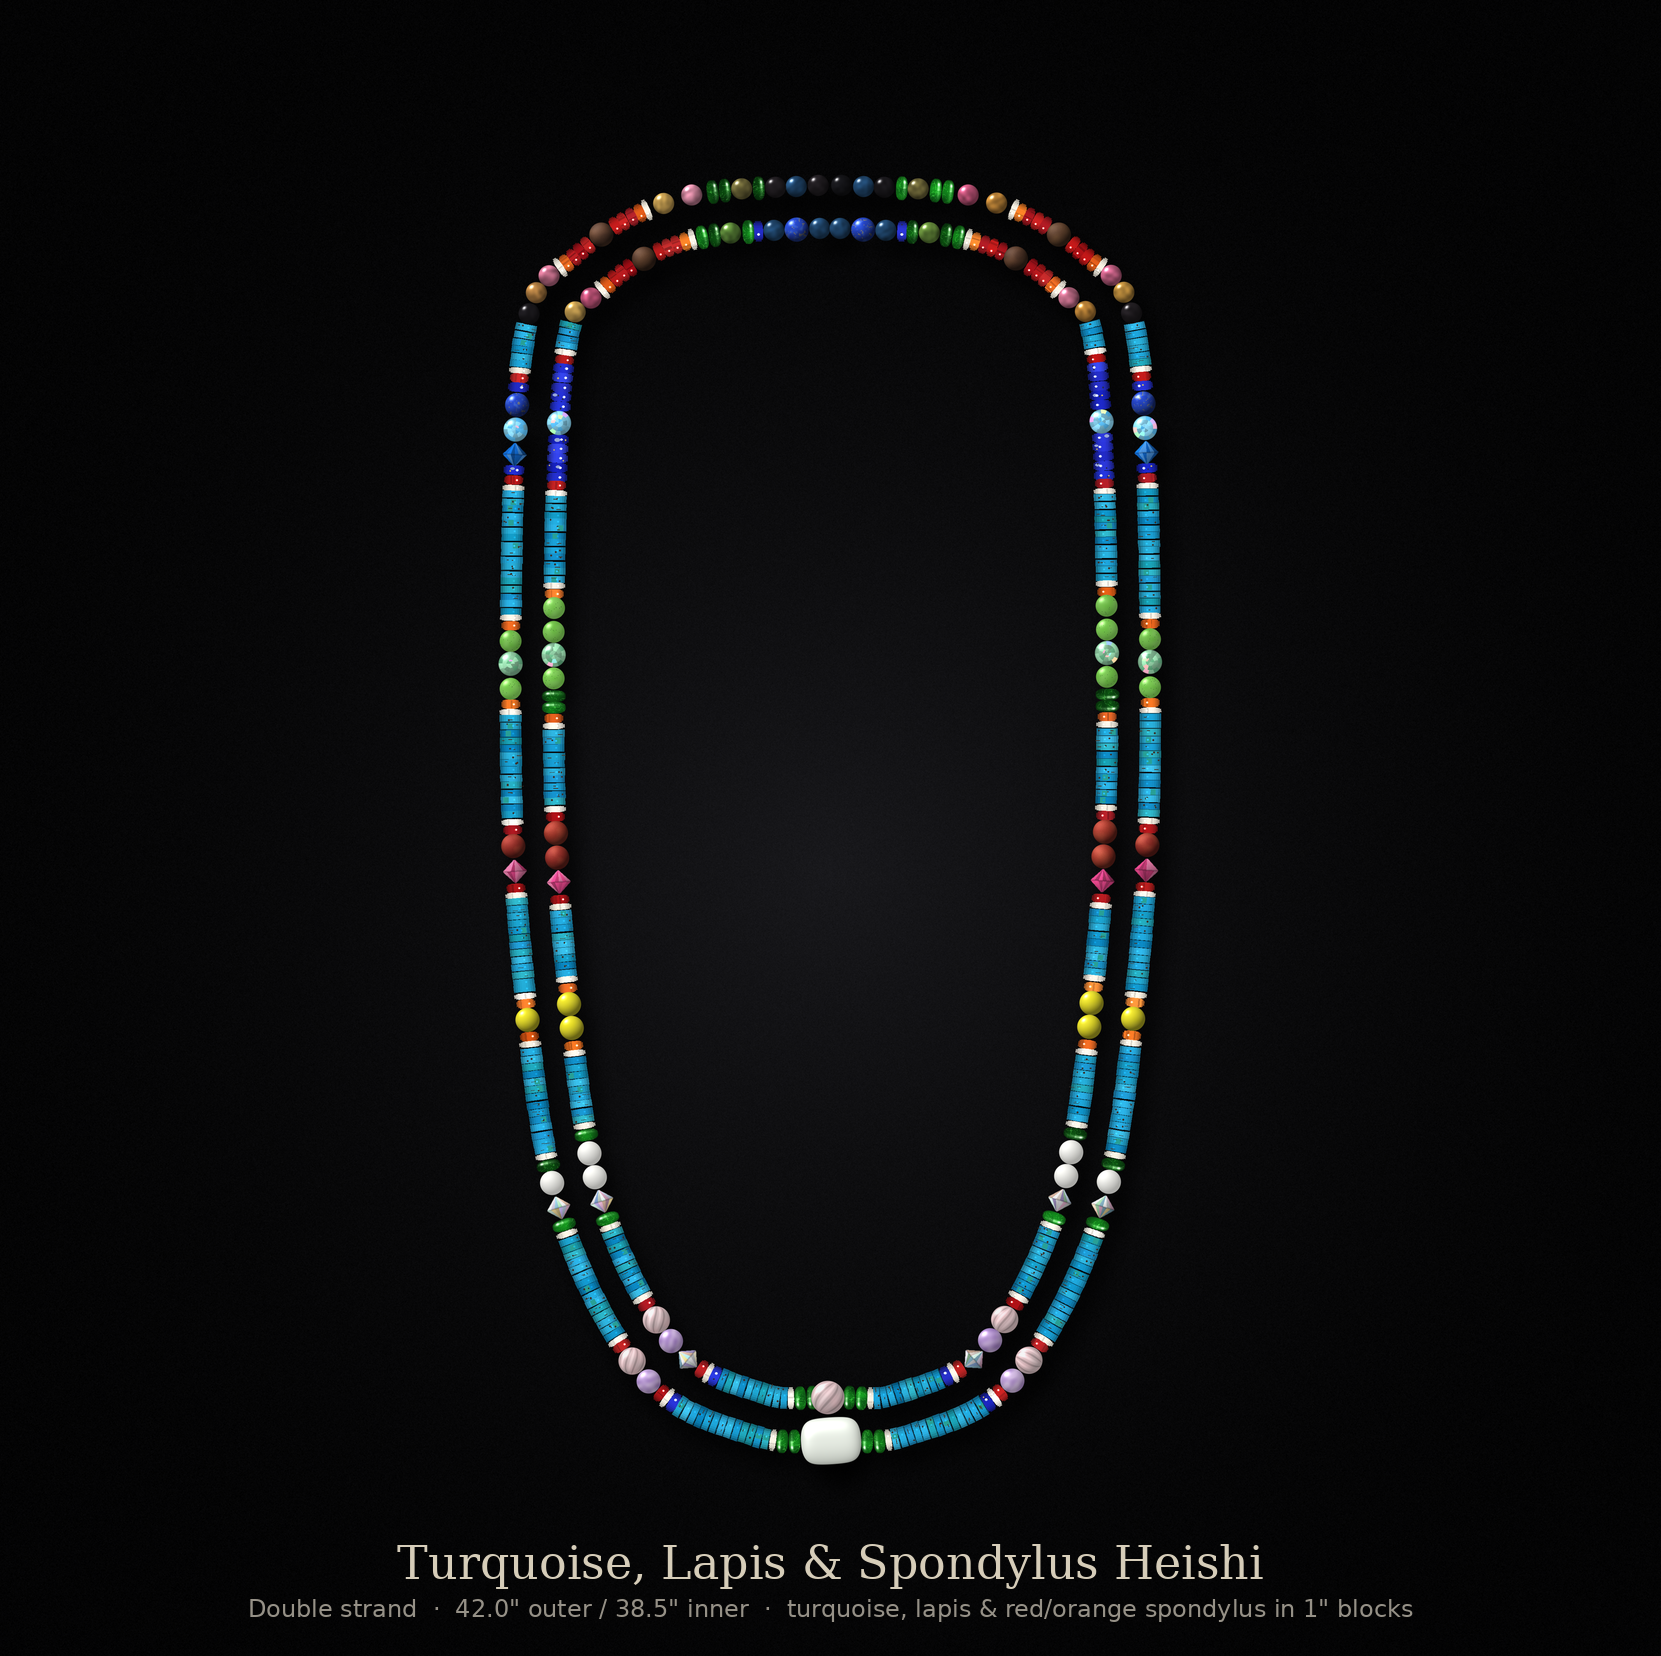
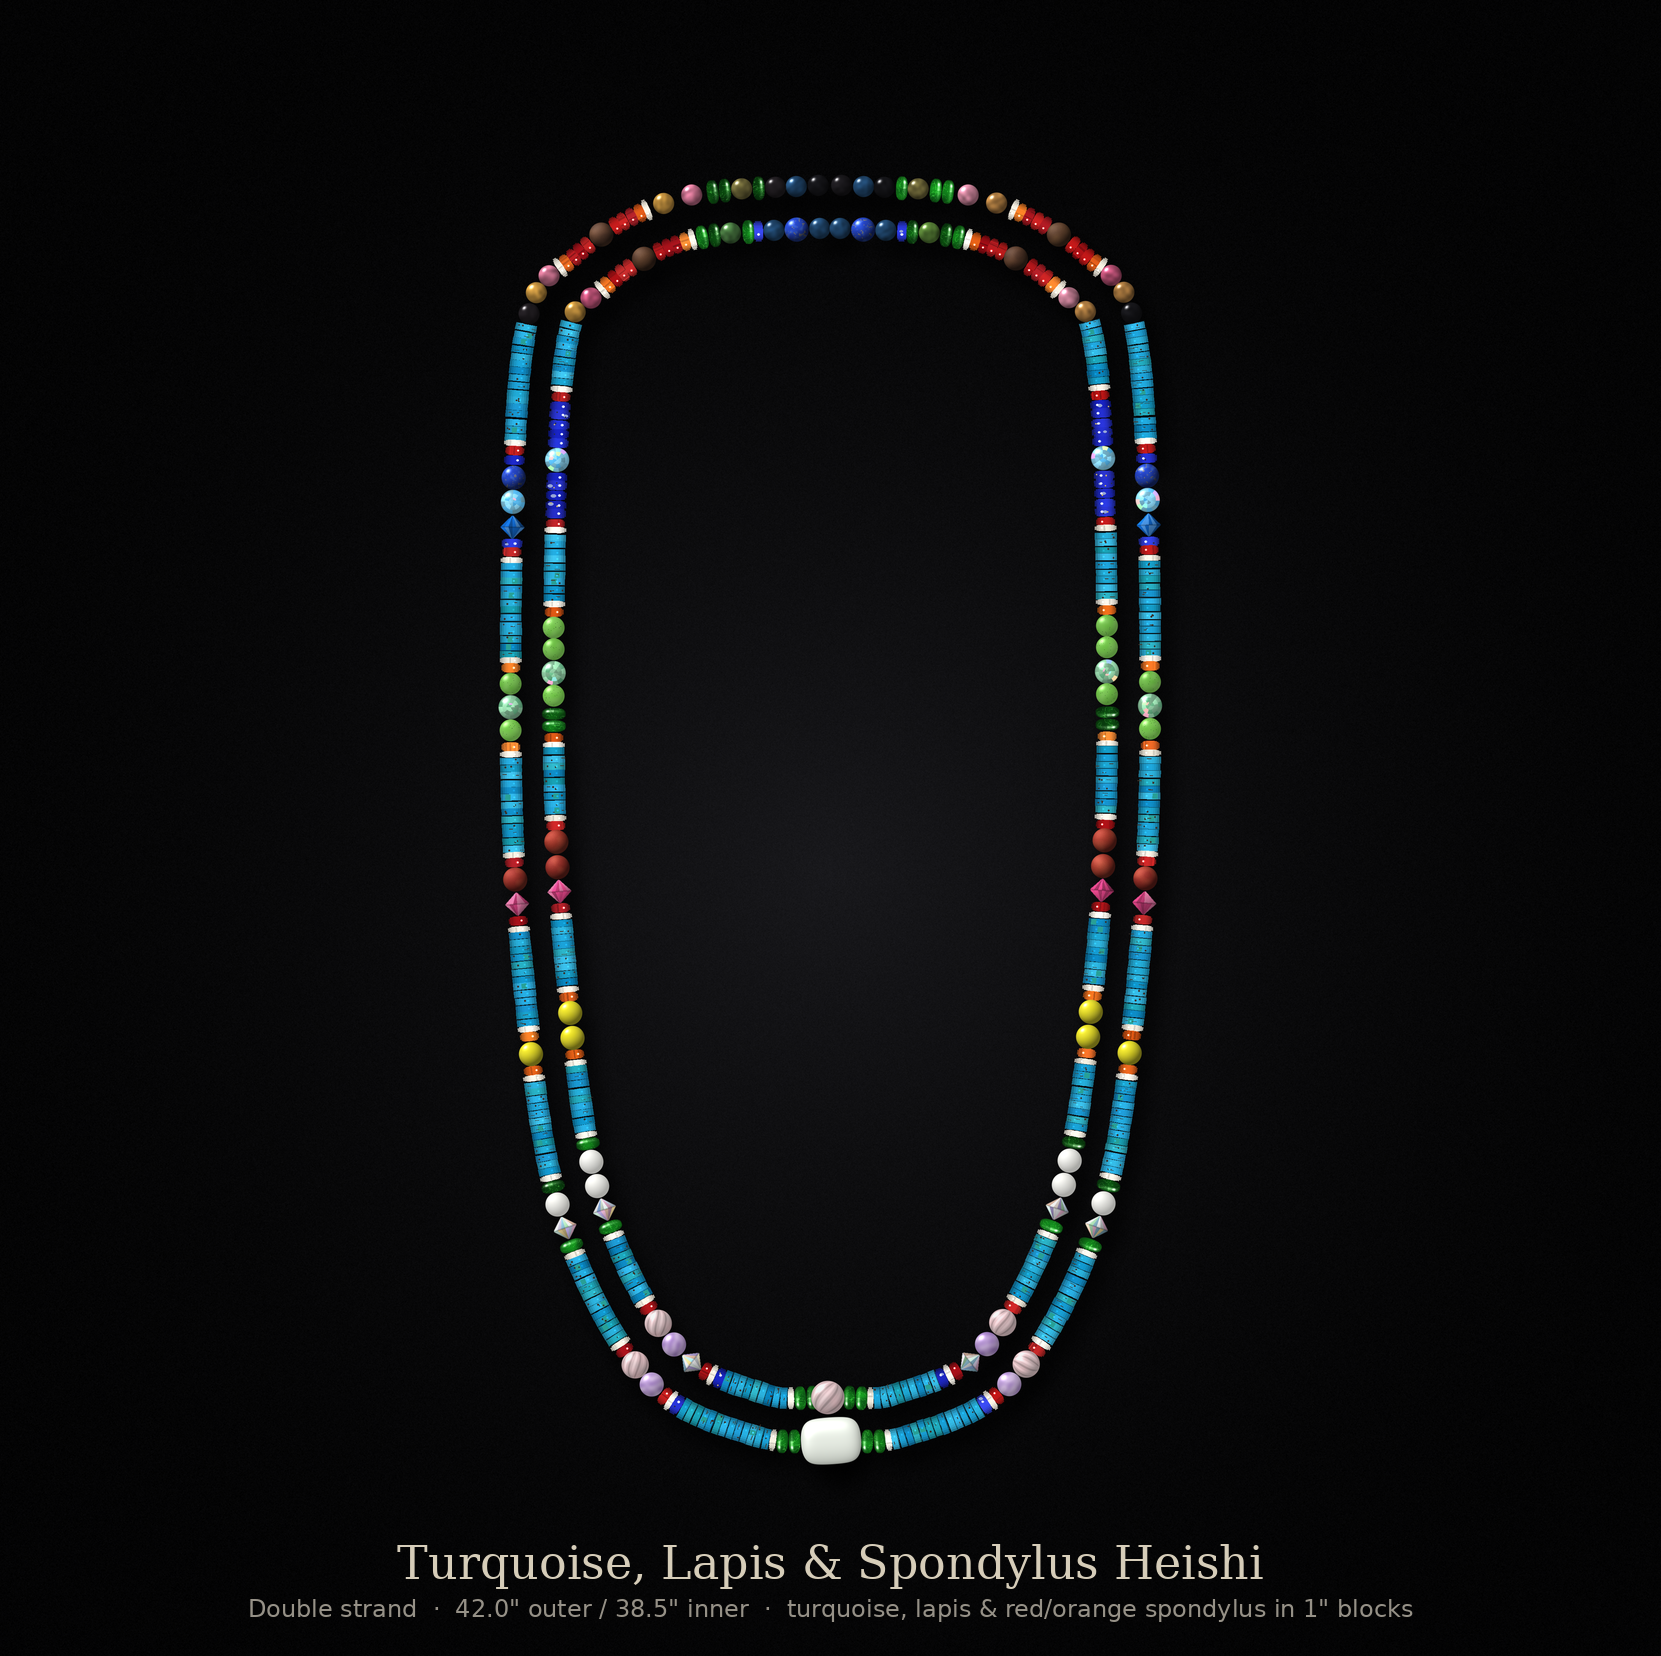
Version 5: lower turquoise runs equalised, the extra goes above the blue section
Claude-Session: https://claude.ai/code/session_014be1vF4Rdf8sv9Si75Gudv

Changed region(s): [[0.2763, 0.1848, 0.4913, 0.8931], [0.522, 0.1848, 0.7062, 0.8931]]

diff --git a/necklace/render_necklace.py b/necklace/render_necklace.py
@@ -1192,6 +1192,7 @@ if V4:
         denim = []
         V4_USED = {}
         TOP_TOURM = {}
+        GAP3_EXTRA = {}
         V5_CEN = {}
         for st, STN in (((1, INNER), (0, OUTER)) if V5 else ((0, OUTER), (1, INNER))):
             path, ss = (outer, s_out) if st == 0 else (inner, s_in)
@@ -1530,6 +1531,14 @@ if V4:
                 if st == 0:                                      # outer: one white round fewer; turquoise above and below fills in
                     STN[7].remove("opal8")
                     gaps[7] += SZ["opal8"] / 2; gaps[8] += SZ["opal8"] / 2
+                # turquoise runs from the centre out to the blue section trimmed to one (the shortest) length;
+                # what they give up goes into the run above the blue section, which moves the blue down
+                _low = list(range(4, len(gaps)))
+                _L = min(gaps[i] for i in _low)
+                _x = sum(gaps[i] - _L for i in _low)
+                for i in _low:
+                    gaps[i] = _L
+                gaps[3] += _x; GAP3_EXTRA[st] = _x
                 print(f"v5 strand {st} swapped 7/8 gaps", [round(float(x), 1) for x in gaps])
             g = 0.0
             lap = LAP_BUDGET[st]
@@ -1549,7 +1558,7 @@ if V4:
                     lap -= nl
                     V4_USED["lapisH"] = V4_USED.get("lapisH", 0) + 2 * nl
                 elif V5 and gi == 3 and gl >= 13.0:       # red-to-blue run: tourmalines in the upper half, turquoise in the lower half
-                    nt = max(1, int(round(gl / 2 / 7.0)))
+                    nt = max(1, int(round((gl - GAP3_EXTRA.get(st, 0.0)) / 2 / 7.0)))   # same tourmalines as before
                     for q in range(nt):
                         _tk = ("pink", "tan", "black")[q % 3]
                         put(g + 7.0 * (q + 0.5), _tk)
